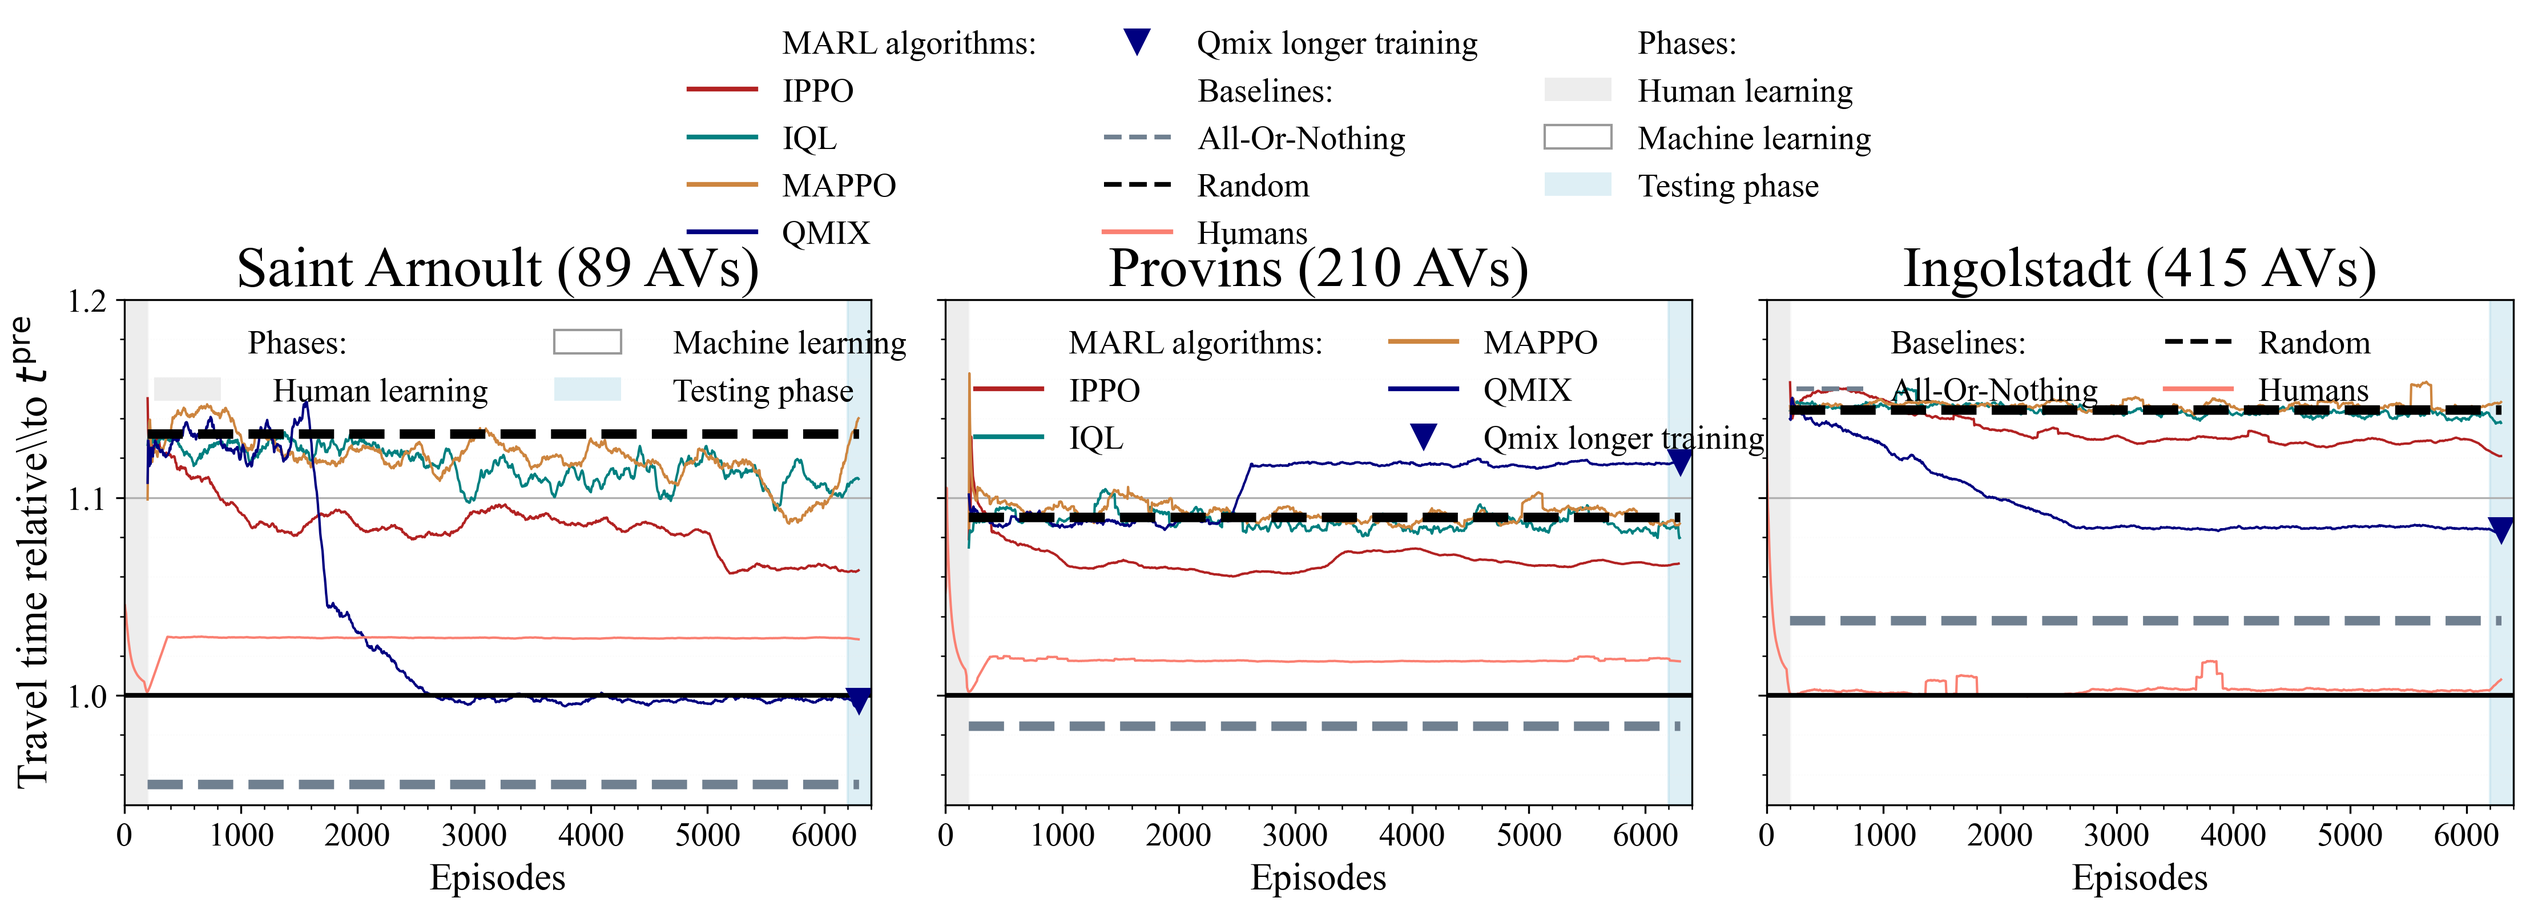
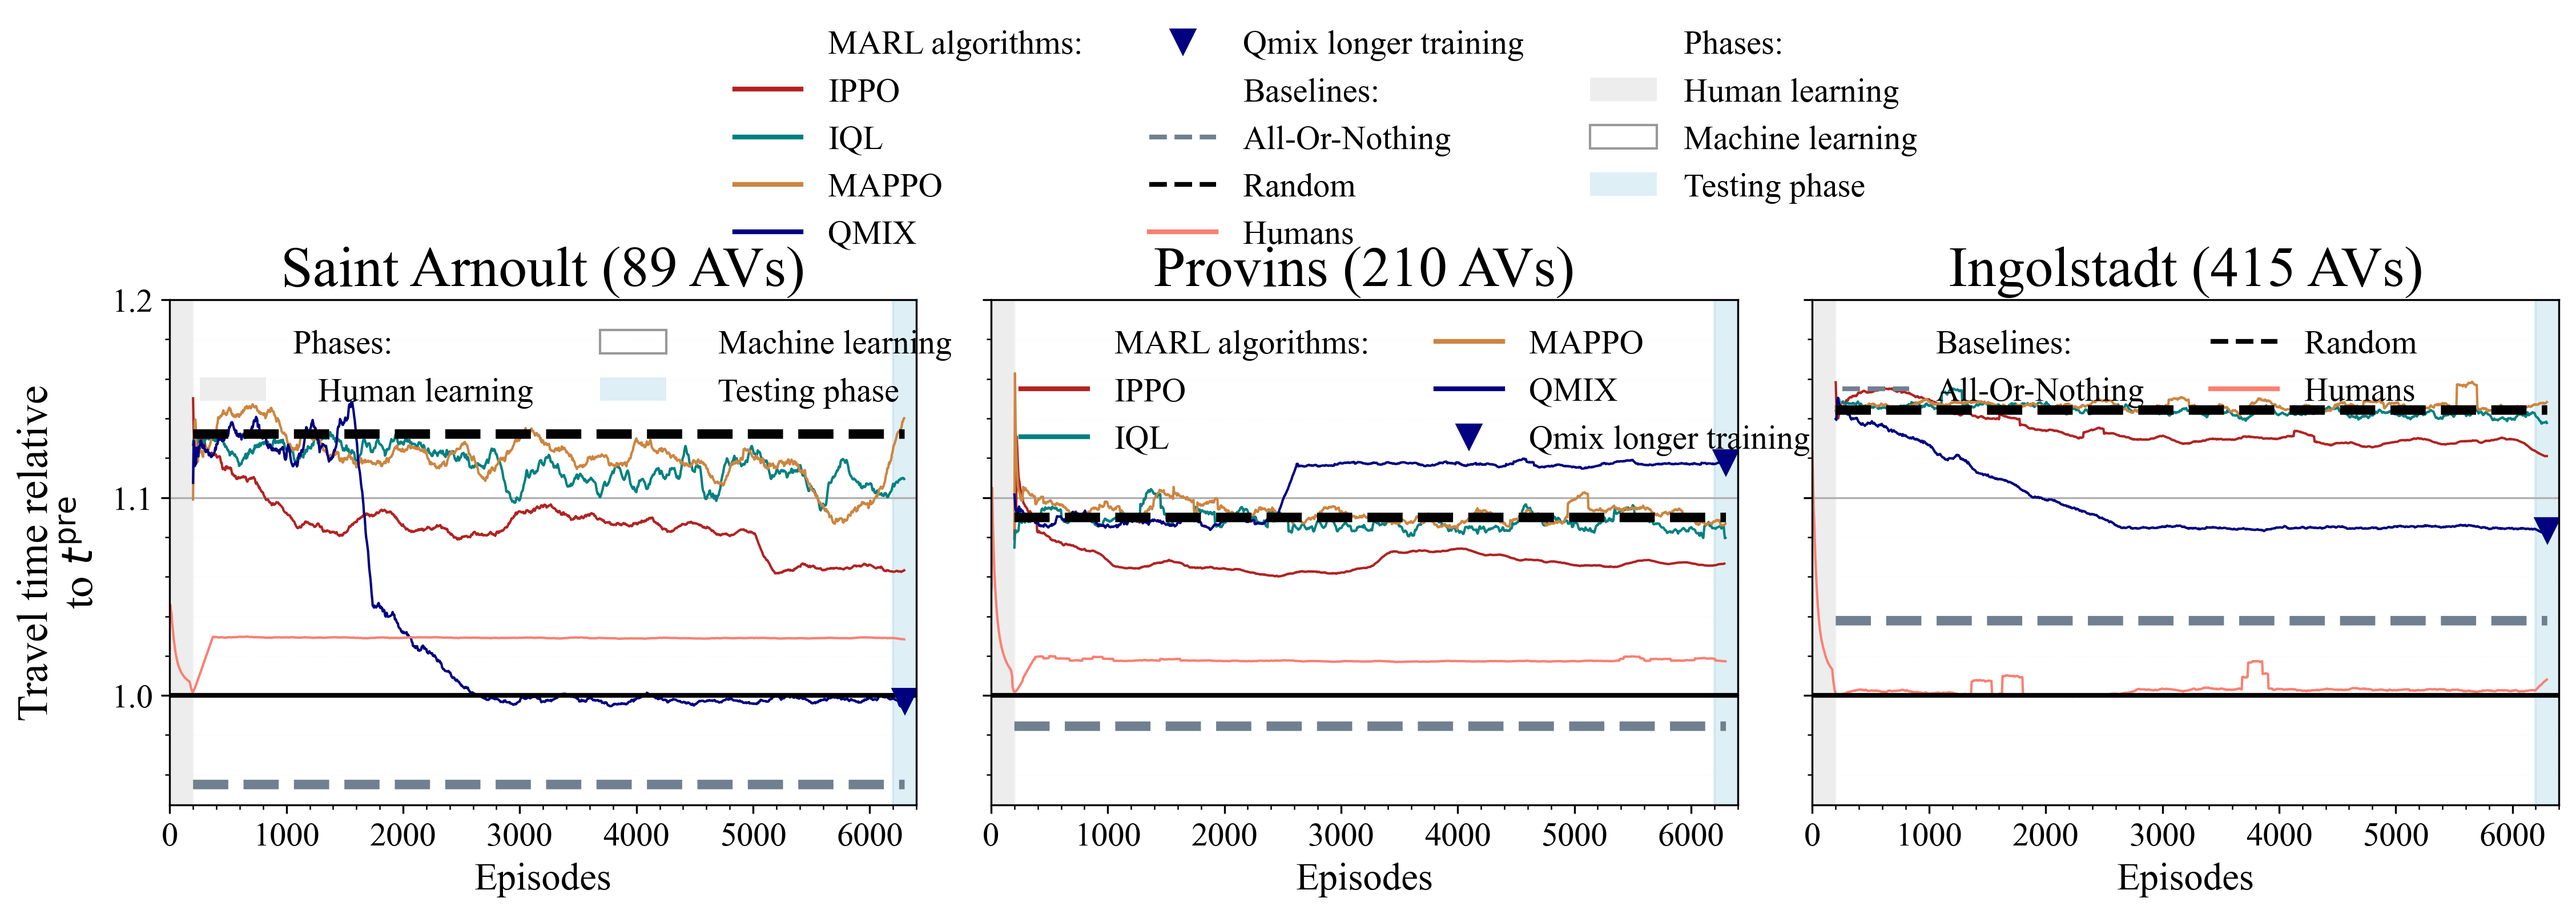
more-plot-alternatives

diff --git a/plotting.py b/plotting.py
@@ -197,8 +197,8 @@ for i, (city_prefix, alg_groups) in enumerate(city_groups.items()):
 
             if idx == 1:
                 ax.plot(x, av_smoothed, label=f'{label} (AV)', color=color, linewidth=1)
-            #else:
-            #    ax.plot(x, av_smoothed, color=color, linewidth=1, alpha=0.5)
+            else:
+                ax.plot(x, av_smoothed, color=color, linewidth=1, alpha=0.5)
 
 
     # Plot the last human agent with dashed line
@@ -269,14 +269,14 @@ for i, (city_prefix, alg_groups) in enumerate(city_groups.items()):
 
     ### Set y axis label only on the rightest plot
     if i == 0:
-        ax.set_ylabel(r"Travel time relative\\to $t^{\mathrm{pre}}$", fontsize=18)
+        ax.set_ylabel("Travel time relative\nto $t^{\\mathrm{pre}}$", fontsize=18)
         phases_legend = [
             Patch(facecolor='none', edgecolor='none', label='Phases:'),  # header
             Patch(facecolor='lightgrey', alpha=0.4, label='   Human learning'),
             Patch(facecolor='white', edgecolor='black', alpha=0.4, label='   Machine learning'),
             Patch(facecolor='lightblue', alpha=0.4, label='   Testing phase'),
         ]
-        ax.legend(handles=phases_legend, loc='upper left', ncol = 2, frameon=False, fontsize=14)
+        #ax.legend(handles=phases_legend, loc='upper left', ncol = 2, frameon=False, fontsize=14)
 
     if i == 1:
 
@@ -289,7 +289,7 @@ for i, (city_prefix, alg_groups) in enumerate(city_groups.items()):
             Line2D([0], [0], color='navy', lw=2, label='QMIX'),
             Line2D([0], [0], marker='v', color='navy', linestyle='None', markersize=10, label='Qmix longer training')
         ]
-        ax.legend(handles=legend1, loc='upper left', ncol=2, frameon=False, fontsize=14)
+        #ax.legend(handles=legend1, loc='upper left', ncol=2, frameon=False, fontsize=14)
         
     if i == 2:
 
@@ -301,7 +301,7 @@ for i, (city_prefix, alg_groups) in enumerate(city_groups.items()):
             Line2D([0], [0], color='black', lw=2, linestyle = '--', label='Random'),
             Line2D([0], [0], color='salmon', lw=2, label='Humans'),
         ]
-        ax.legend(handles=legend2, loc='upper left', ncol = 2, frameon=False, fontsize=14)
+        #ax.legend(handles=legend2, loc='upper left', ncol = 2, frameon=False, fontsize=14)
         
 
 ### Add a central legend for the whole plot
@@ -344,4 +344,4 @@ fig.legend(handles=legend_elements, loc='upper center', bbox_to_anchor=(0.5, 1.0
     Line2D([0], [0], color='navy', lw=2, label='QMIX')
 ]"""
 
-fig.savefig('travel_times_one_replication.png', dpi=300, bbox_inches='tight')  # Change filename and format as needed
+fig.savefig('travel_times_all_replication_outside_legends.png', dpi=300, bbox_inches='tight')  # Change filename and format as needed
